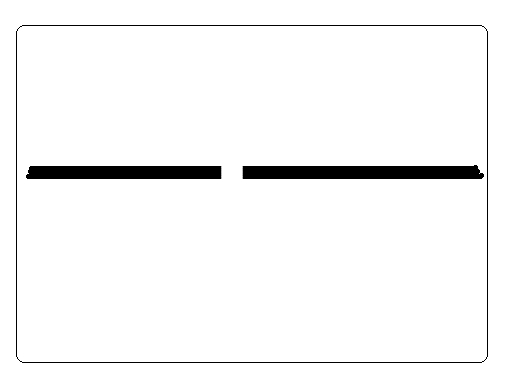
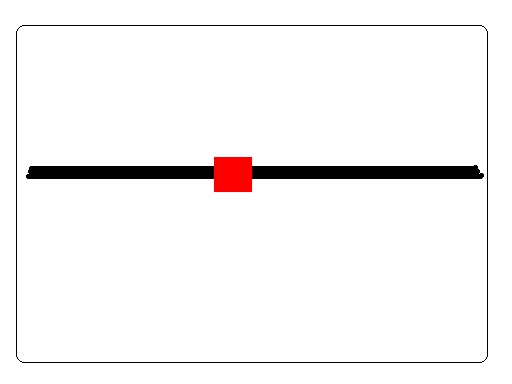
Detecta sector borrado de la imagen metodo--->detectarEspacioBorrado(hay que habilitar la linea 43 de la clase Reconstruucion de imagenes)

Changed region(s): [[0.4062, 0.4062, 0.5, 0.5]]

diff --git a/ReconstruccionImagenes.cpp b/ReconstruccionImagenes.cpp
@@ -40,6 +40,7 @@ void ReconstruccionImagenes::recibeImagenGuardada( char* pPathImagenGuardada )
 {
     this->_imagenGuardada = cvLoadImage( pPathImagenGuardada );
 //    muestraImagen( _imagenGuardada );
+//    detectarEspacioBorrado(_imagenGuardada);
 }//recibeImagenGuardada
 
 void ReconstruccionImagenes::initReconstruccionImagen()
@@ -49,6 +50,24 @@ void ReconstruccionImagenes::initReconstruccionImagen()
     cout << "Se agregan Pixeles a la Matriz" << endl;
     agregaPixelesAMatriz();
 }//Fin de initReconstruccionImagen()
+
+/**
+ * @brief ReconstruccionImagenes::detectarEspacioBorrado
+ * Detecta el espacio borrado de una imagen (detecta el color rojo)
+ * @param pImagen
+ * @return
+ */
+void ReconstruccionImagenes::detectarEspacioBorrado( IplImage *pImagen)
+{
+    Mat sector(pImagen) ;                               //se covierte imagen desde IplImage a Mat
+    assert( sector.type() == CV_8UC3 );
+    _espacioBorradoImagen = sector;
+    inRange( sector, Scalar(0, 0, 254), Scalar(0, 0, 255), _espacioBorradoImagen );//rango a detectar del color ROJO
+    //return _espacioBorradoImagen;
+    imshow("Giskard: Espacio Borrado de la imagen", _espacioBorradoImagen);
+    imshow("Giskard: Imagen Actual", sector);
+    waitKey();
+}
 
 /**
   Crea la matriz que contendrá un arreglo de RGB en cada celda

diff --git a/ReconstruccionImagenes.h b/ReconstruccionImagenes.h
@@ -5,8 +5,9 @@
 #include <stdlib.h>
 #include <iomanip>
 #include <opencv2/core/core.hpp>
+#include <iostream>
 #include <opencv2/highgui/highgui.hpp>
-#include <cv.h>
+#include <opencv2/imgproc/imgproc.hpp>
 
 using namespace std;
 using namespace cv;
@@ -19,6 +20,7 @@ private:
     int _filas;                     //delimita el tamaño de la celda
     int _columnas;                  //delimita el tamaño de la celda
     int ***_ptrMatriz;              //puntero a una matriz3D
+    Mat _espacioBorradoImagen;      //espacio borrado de la imagen que hay que reconstruir
 
 public:
     ReconstruccionImagenes();//constructor
@@ -38,6 +40,7 @@ public:
     void imprimeMatriz();                                       //imprime la matriz 3D
     void initReconstruccionImagen();                            //inicia la reconstrucción de la imagen
     void creaImagenReconstruida();                              //crea la imagen ya reconstruida desde la matriz 3D
+    void detectarEspacioBorrado( IplImage* pImagen );            //detecta el espacio barrado en la imagen (color rojo)
 
 
 };//fin de la clase

diff --git a/main.cpp b/main.cpp
@@ -2,17 +2,14 @@
 #include "ReconstruccionImagenes.h"
 #include "Poblacion.h"
 
-using namespace std;
-using namespace cv;
-
-//int main()
-//{
-//    cout << "Hello Giskard!" << endl;
-////    ReconstruccionImagenes *p = new ReconstruccionImagenes();
-////    p->recibeImagenGuardada( "/home/darayavilla/Qt_projects/lobowhat-Proyecto1--Giskard/raya1.jpg" );//insertar path de imagen
-//    //p->recibeImagenCapturada();//inicia la captura de video
-////    p->initReconstruccionImagen();
-////    delete p;
+int main()
+{
+    cout << "Hello Giskard!" << endl;
+    ReconstruccionImagenes *p = new ReconstruccionImagenes();
+    p->recibeImagenGuardada( "/home/darayavilla/Qt_projects/lobowhat-Proyecto1--Giskard/raya1.jpg" );//insertar path de imagen
+    //p->recibeImagenCapturada();//inicia la captura de video
+//    p->initReconstruccionImagen();
+    delete p;
 
 //    Poblacion *po = new Poblacion(5);//se inserta un numero de individuos
 //    po->crearPoblacionInicial();
@@ -20,6 +17,6 @@ using namespace cv;
 //    delete po;
 
 
-//    return 0;
-//}
+    return 0;
+}
 

diff --git a/mouse.cpp b/mouse.cpp
@@ -12,7 +12,7 @@ void mouseEvent(int evt, int x, int y, int flags, void* param){
 }
 
 
-int main()
+int main2()
 {
 
         cvNamedWindow("Identificacion de X y Y");
